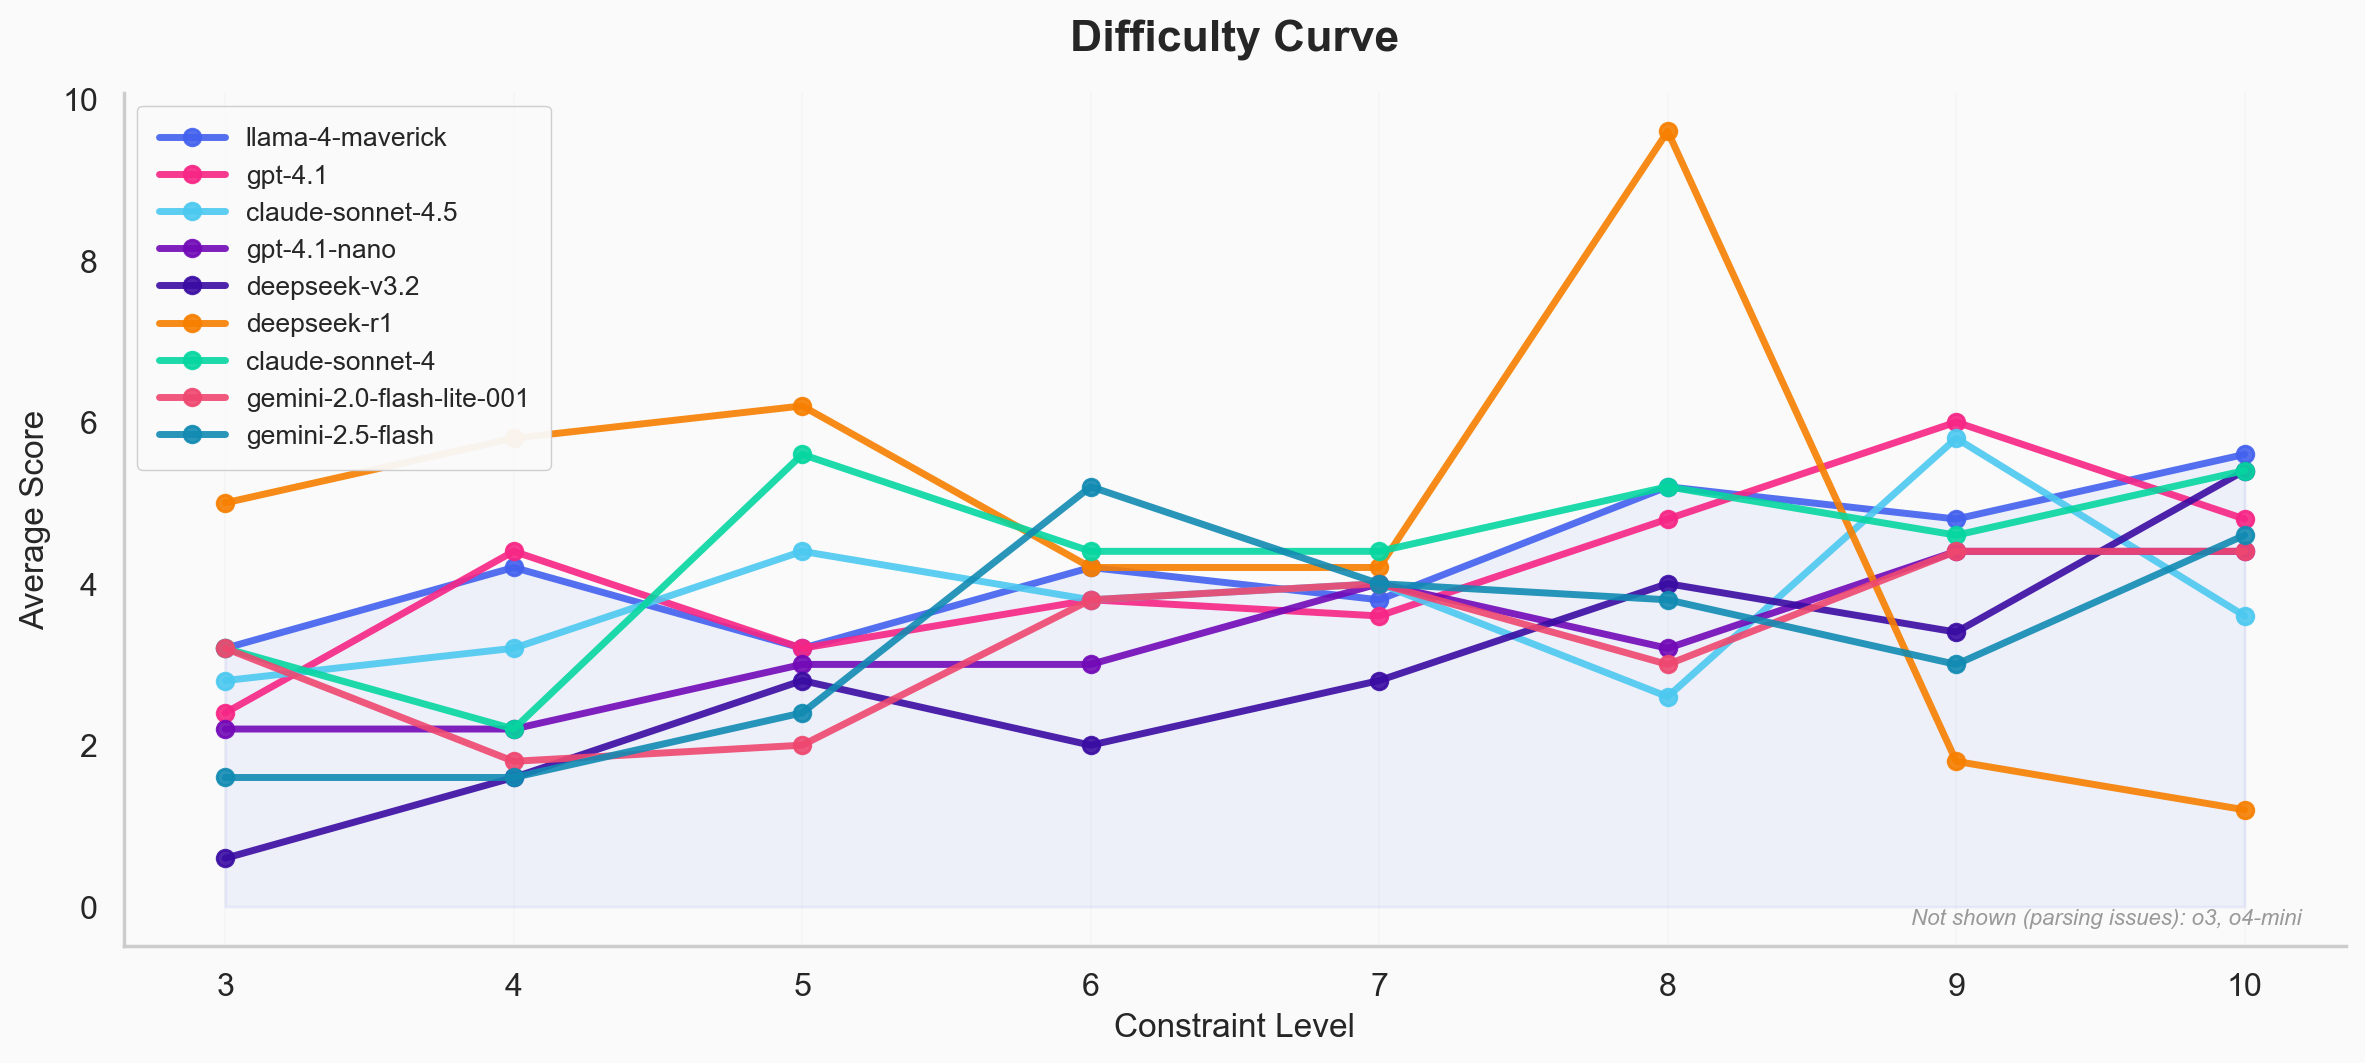
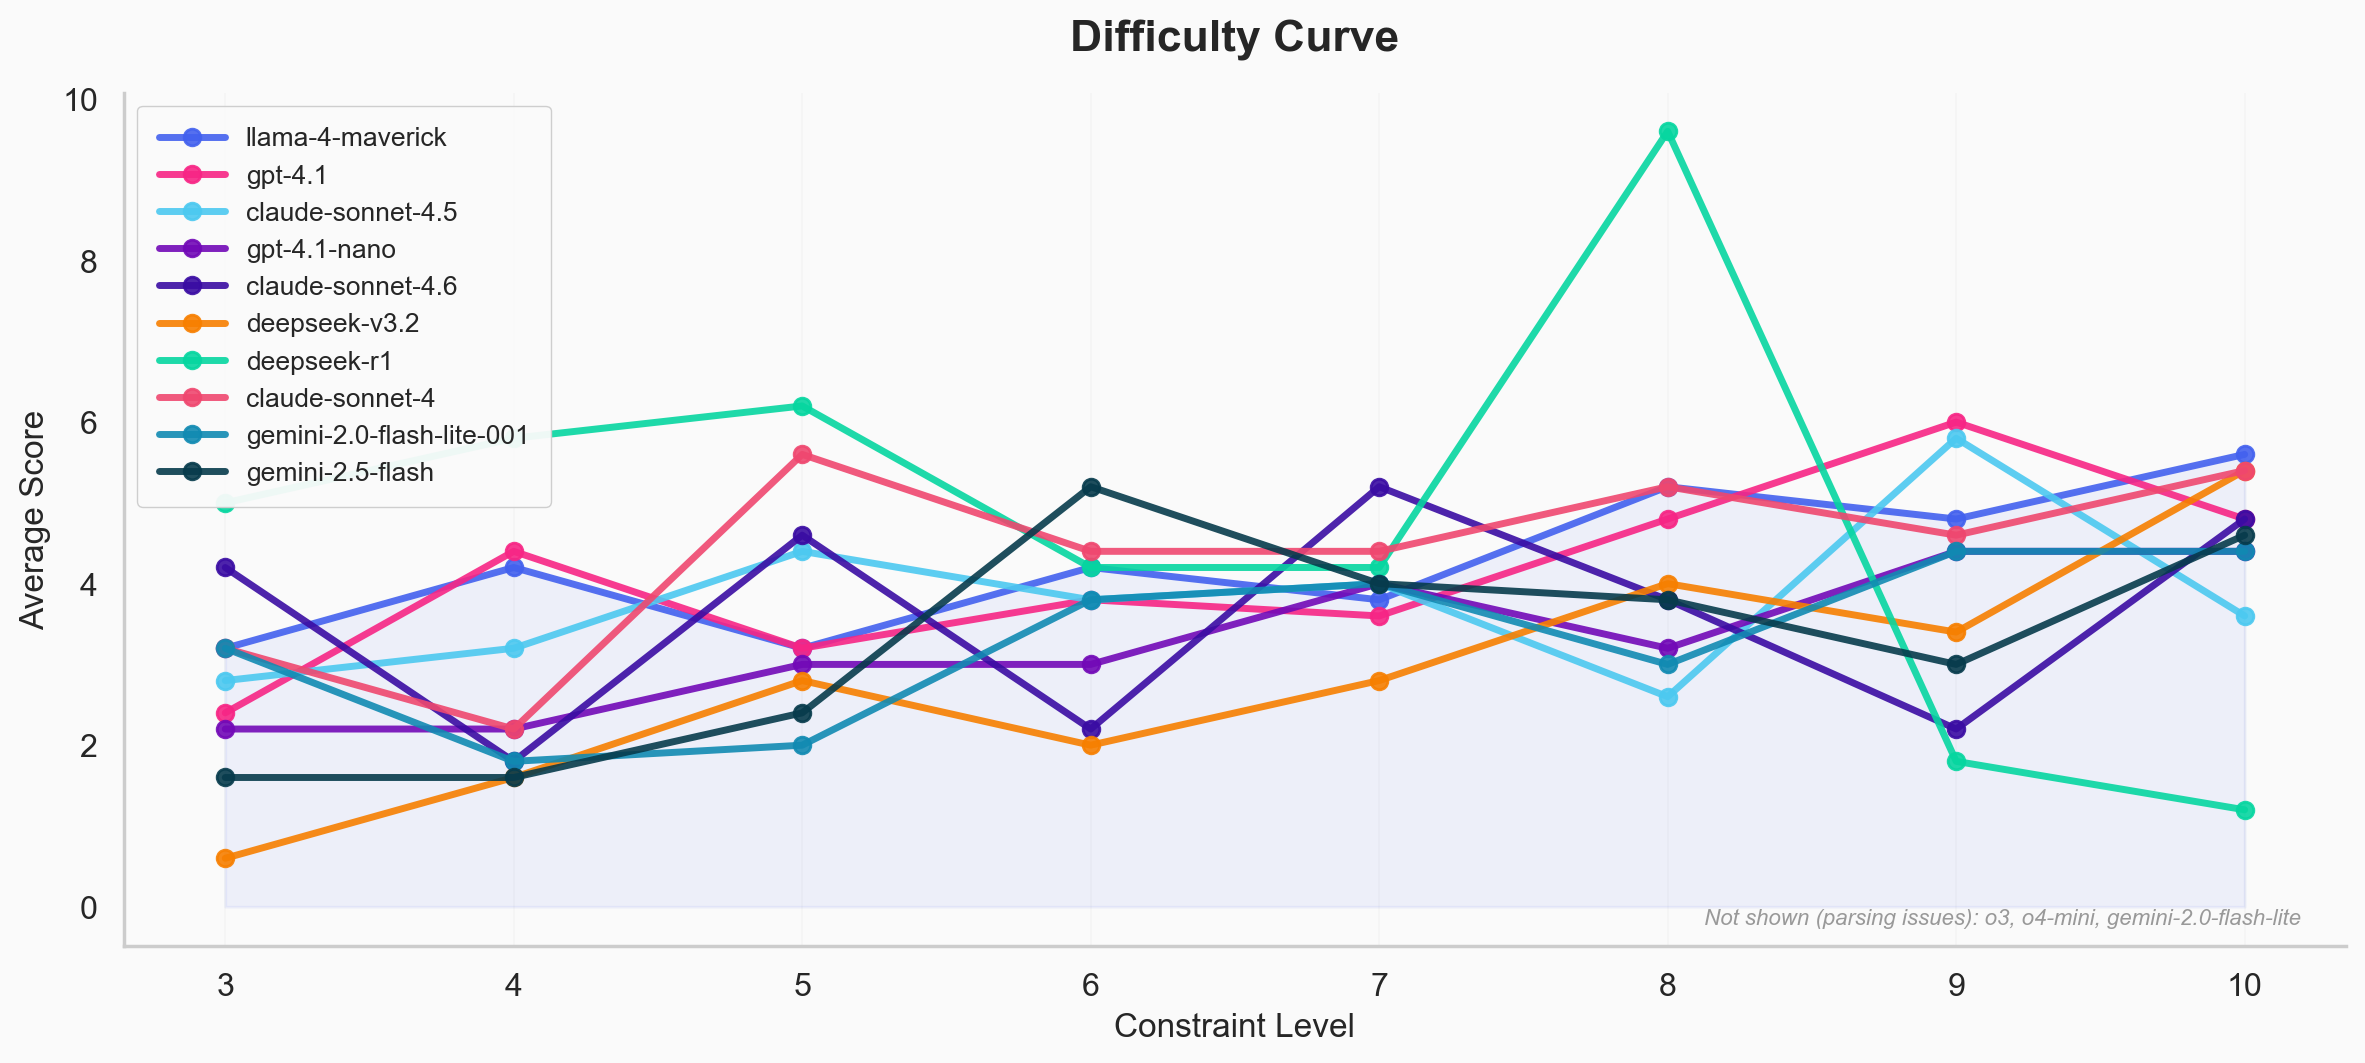
Add claude-sonnet-4.6 benchmark results
Score: 253, Validity: 39.9%, Perfect: 7.7% (levels 3-15, 5 trials)

diff --git a/README.md b/README.md
@@ -30,11 +30,13 @@ Levels 3-15 | 5 trials per level | temperature 0.0
 |---|-------|------:|:--------:|:-------------:|
 | 1 | llama-4-maverick | 322 | 52.7% | 6.2% |
 | 2 | gpt-4.1 | 315 | 52.0% | 4.6% |
-| 3 | gpt-4.1-nano | 270 | 45.8% | 1.5% |
-| 4 | deepseek-v3.2 | 251 | 43.0% | 0.0% |
-| 5 | deepseek-r1 | 245 | 33.5% | 16.9% |
-| 6 | o3 | 12 | 1.0% | 3.1% |
-| 7 | o4-mini | 6 | 0.5% | 1.5% |
+| 3 | claude-sonnet-4.5 | 308 | 50.8% | 4.6% |
+| 4 | gpt-4.1-nano | 270 | 45.8% | 1.5% |
+| 5 | claude-sonnet-4.6 | 253 | 39.9% | 7.7% |
+| 6 | deepseek-v3.2 | 251 | 43.0% | 0.0% |
+| 7 | deepseek-r1 | 245 | 33.5% | 16.9% |
+| 8 | o3 | 12 | 1.0% | 3.1% |
+| 9 | o4-mini | 6 | 0.5% | 1.5% |
 
 > **Note:** o3 and o4-mini score near zero due to response format issues - their reasoning output breaks sentence extraction. This is a known issue being investigated.
 
